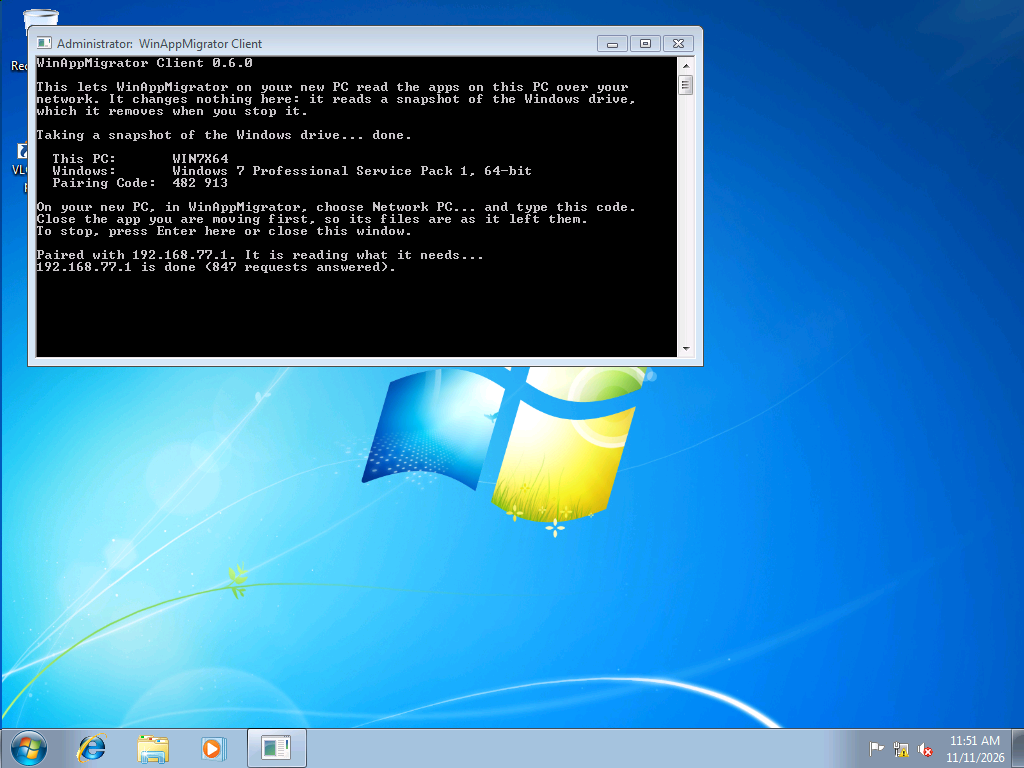
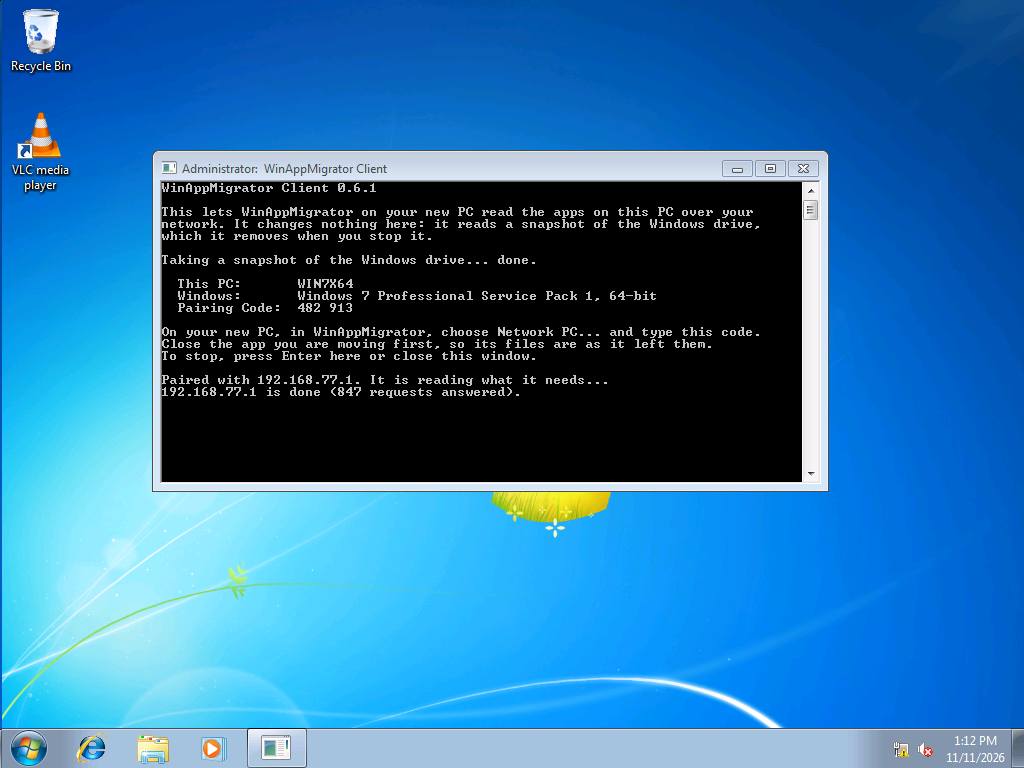
Cut 0.6.1
The security pass and title case, released. The client in it passed the
planted-DLL, pairing, build, and clean-up checks on Windows 7 SP1, 32-bit and
64-bit, and the picture of it is of this version.

diff --git a/CHANGELOG.md b/CHANGELOG.md
@@ -2,7 +2,7 @@
 
 All notable project changes are tracked here.
 
-## Unreleased
+## 0.6.1 — 2026-11-11
 
 ### A website
 
